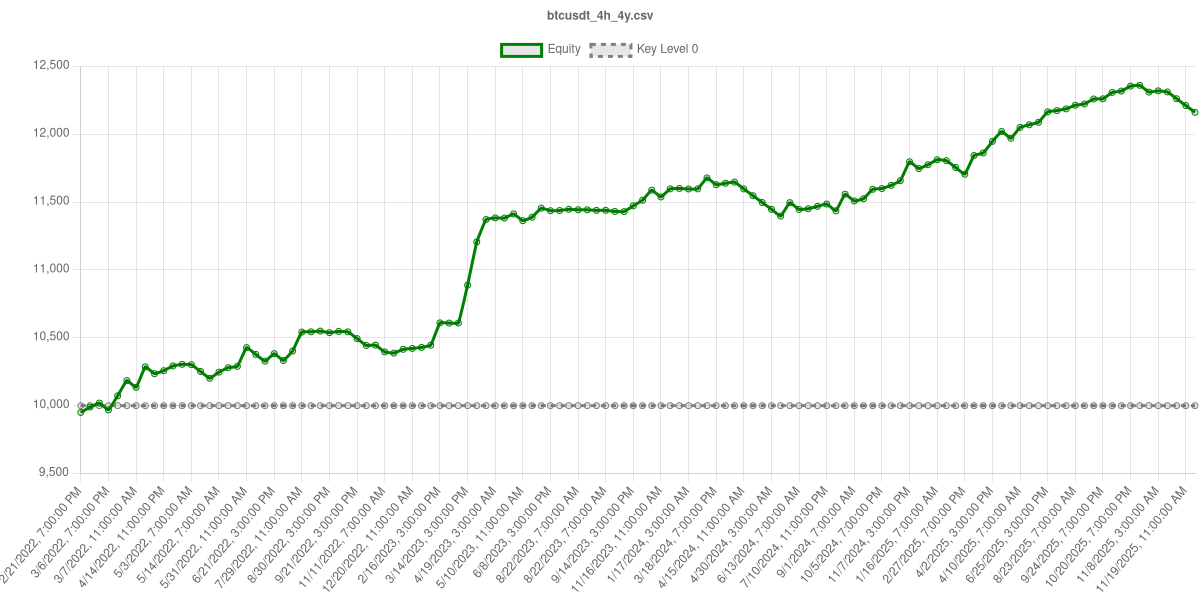
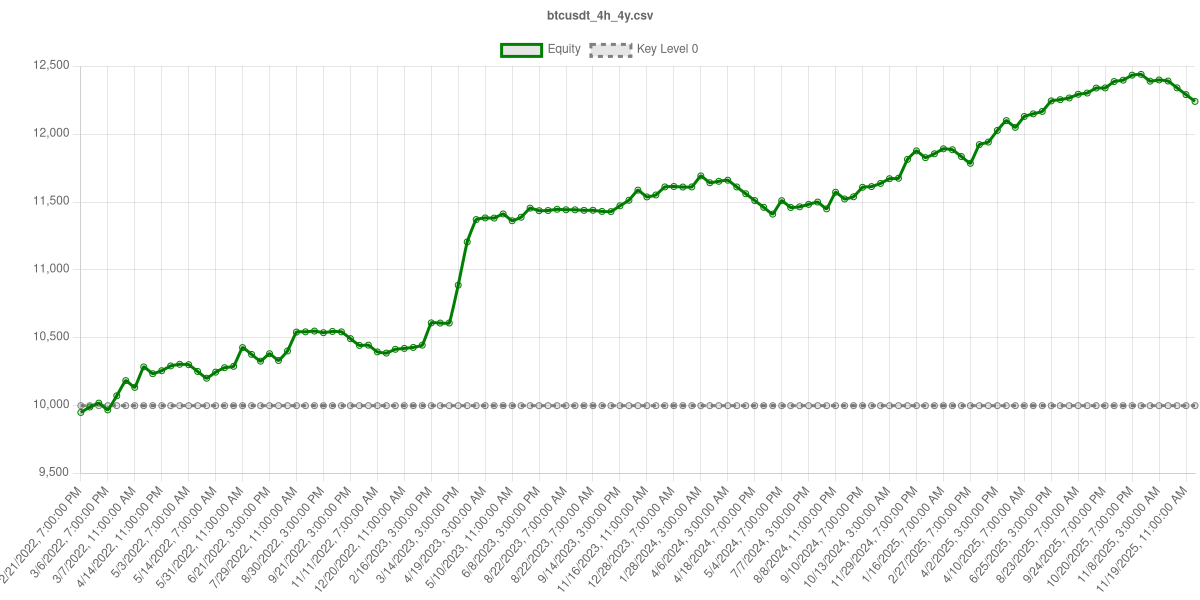
update

diff --git a/backend/service-backtest/src/rules/detectorRule.ts b/backend/service-backtest/src/rules/detectorRule.ts
@@ -29,9 +29,7 @@ export async function detectorRule(
 
     const rule1 = lastRsi <= 33;
 
-    const rule2 = lastEma55 > lastCandle.high; //The price did not touch the EMA
-
-    this.state.rule_values[RULE] = rule1 && rule2;
+    this.state.rule_values[RULE] = rule1;
   }
 
   return this.state.rule_values[RULE];
